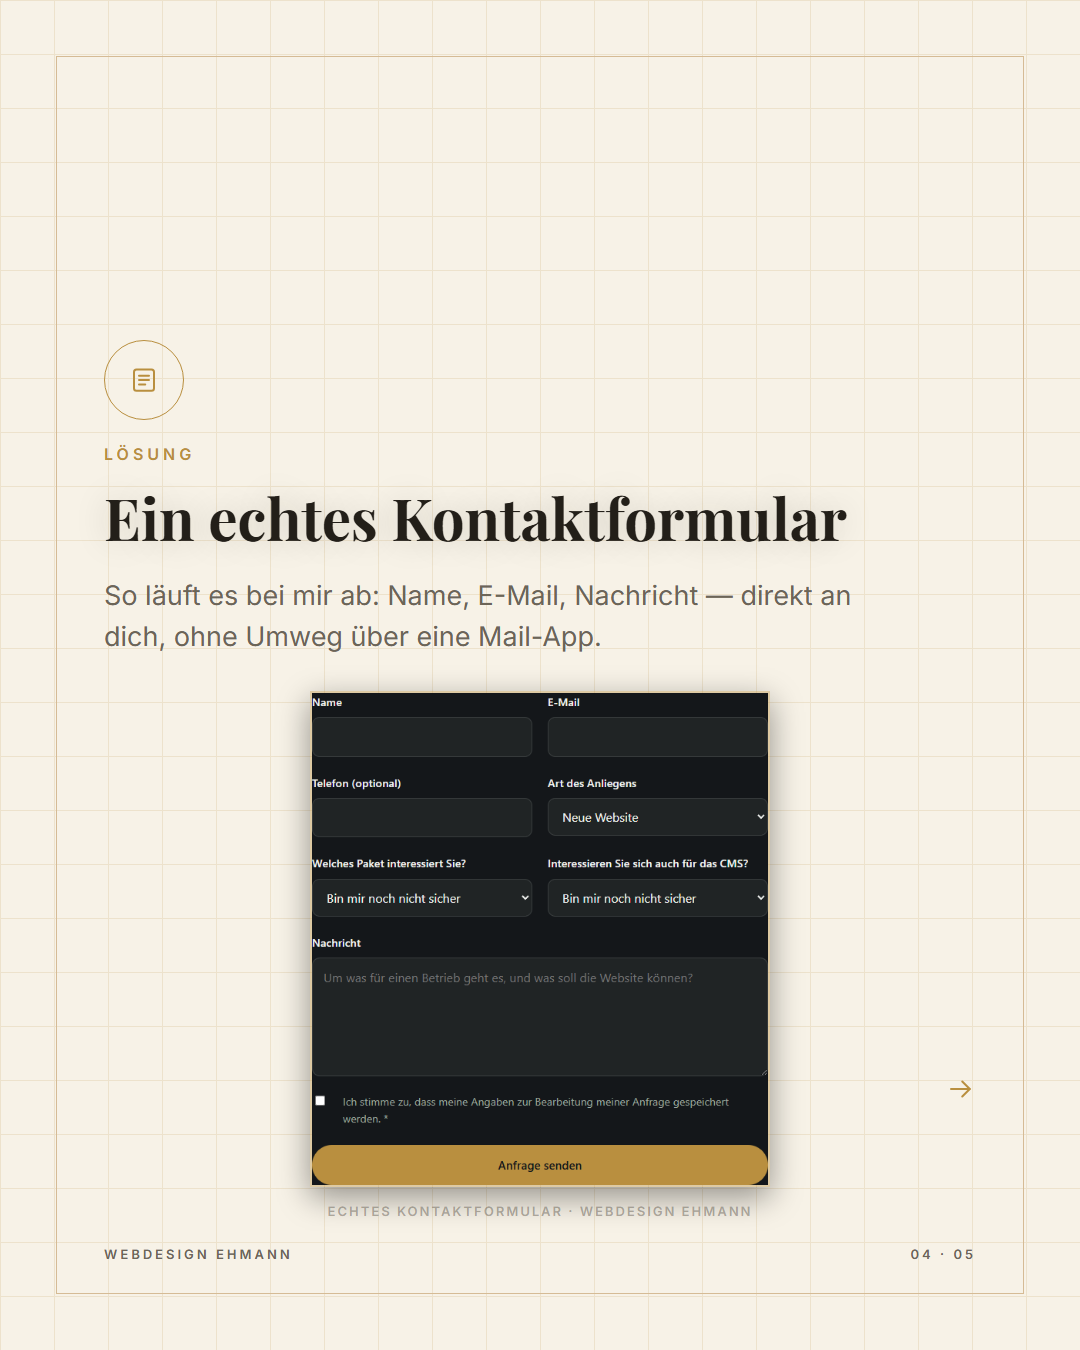
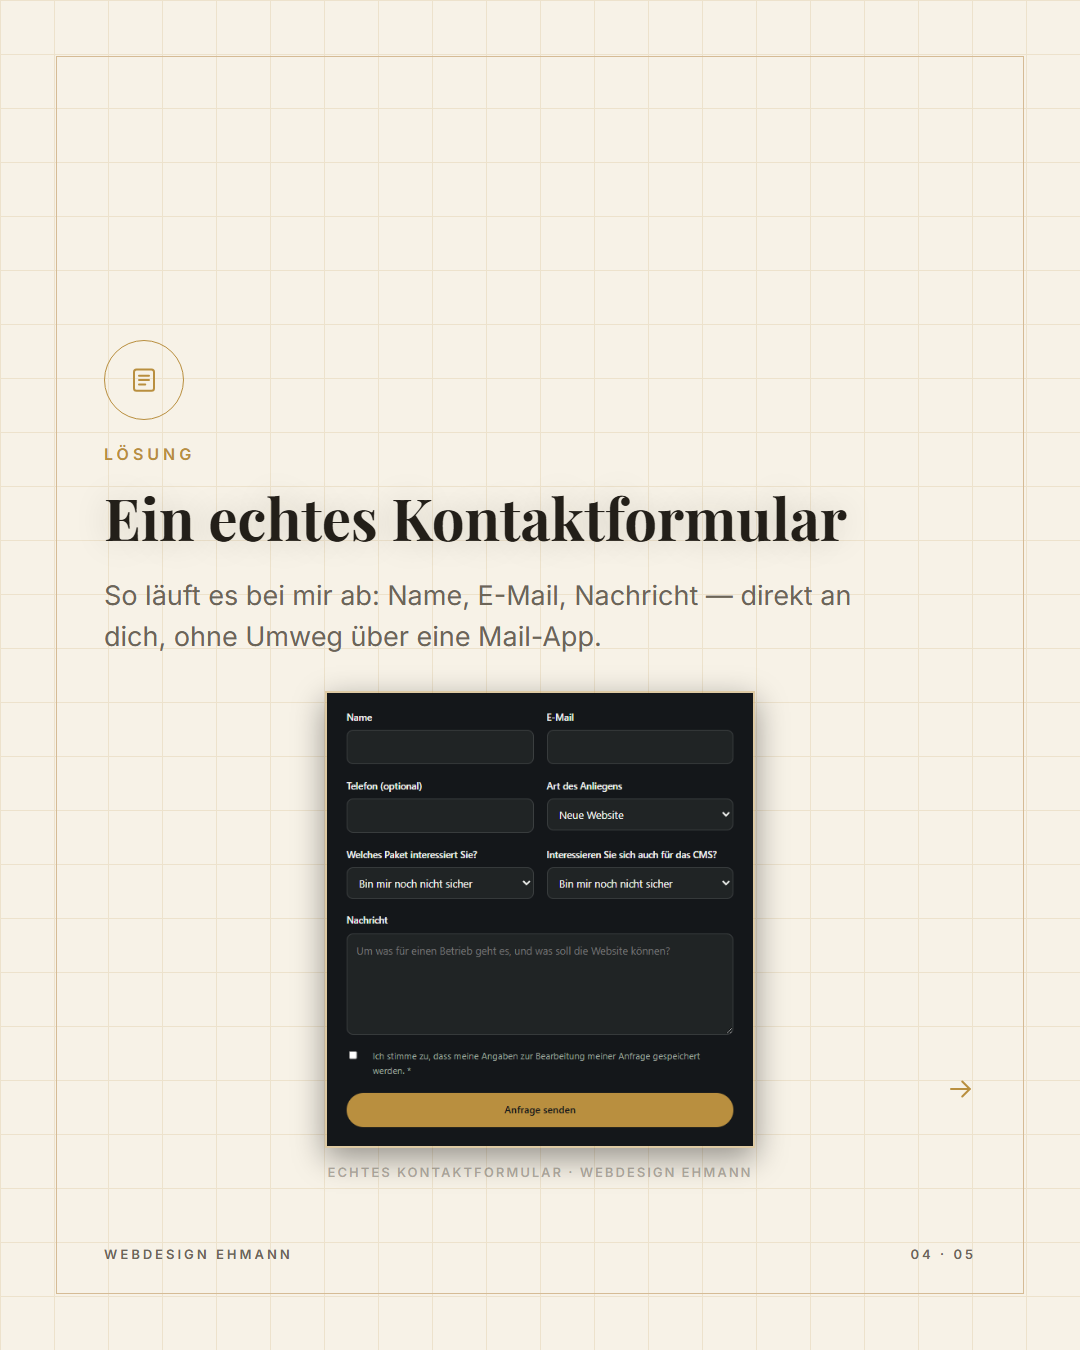
Kontaktformular: Nutzer-Screenshot statt eigenem Playwright-Capture
Eigenen Screenshot durch das vom Nutzer bereitgestellte Bild ersetzt
(zugeschnitten auf den reinen Formularbereich mit Rand, Hintergrund-
Leerraum drumherum entfernt). Box-Groesse an das neue Seitenverhaeltnis
angepasst - per Pixelmessung geprueft, dass die Box vollstaendig
innerhalb des Slide-Rahmens liegt und nichts am Bildrand abgeschnitten
wird.

Changed region(s): [[0.275, 0.4978, 0.7333, 0.9022]]

diff --git a/assets/marketing/instagram-posts/_build/content.js b/assets/marketing/instagram-posts/_build/content.js
@@ -212,8 +212,8 @@ const POSTS = [
         headline: "Ein echtes Kontaktformular",
         subtext: "So läuft es bei mir ab: Name, E-Mail, Nachricht — direkt an dich, ohne Umweg über eine Mail-App.",
         photo: "real/kontaktformular-webdesign-ehmann.png",
-        photoW: 460,
-        photoH: 496,
+        photoW: 430,
+        photoH: 457,
         caption: "ECHTES KONTAKTFORMULAR · WEBDESIGN EHMANN",
       },
       {
